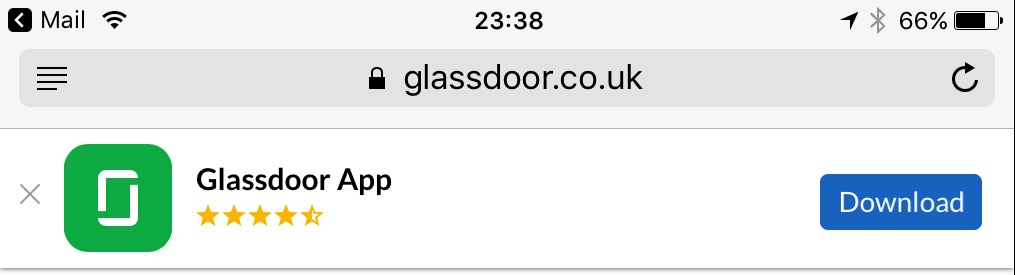
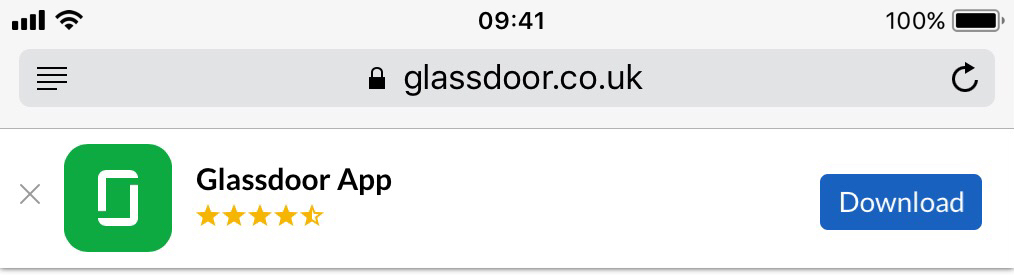
Update image.

diff --git a/_posts/2018-01-22-smart-app-banner.md b/_posts/2018-01-22-smart-app-banner.md
@@ -20,6 +20,8 @@ Over past years I was collecting different custom implementations from all over 
 
 And still it remains secret to me why would anyone wants custom solution for this problem? Is this blunt ignorance or might be it is designers who think their design is better than standard solution? Or perhaps it's greed and website owner wants have more tracking? Anyway, this custom banners look worth and don't work well. They have worth privacy as well, so don't tap on them.
 
+[Screenshots edited in Altershot.][2]
+
 [image-2]:  {{ site.url }}/images/sap-ebay.jpg
 [image-3]:  {{ site.url }}/images/sap-glassdoor.jpg
 [image-4]:  {{ site.url }}/images/sap-tastemade.png
@@ -30,5 +32,7 @@ And still it remains secret to me why would anyone wants custom solution for thi
 [image-9]:  {{ site.url }}/images/sap-telegraph.jpg
 
 [1]:	https://developer.apple.com/library/content/documentation/AppleApplications/Reference/SafariWebContent/PromotingAppswithAppBanners/PromotingAppswithAppBanners.html
+
+[2]: https://itunes.apple.com/gb/app/altershot/id911930618?mt=8&at=1010l4GJ&ct=1010l4GJ
 
 [image-1]:	https://developer.apple.com/library/content/documentation/AppleApplications/Reference/SafariWebContent/Art/smartbanner_2x.png "Smart App Banner"
